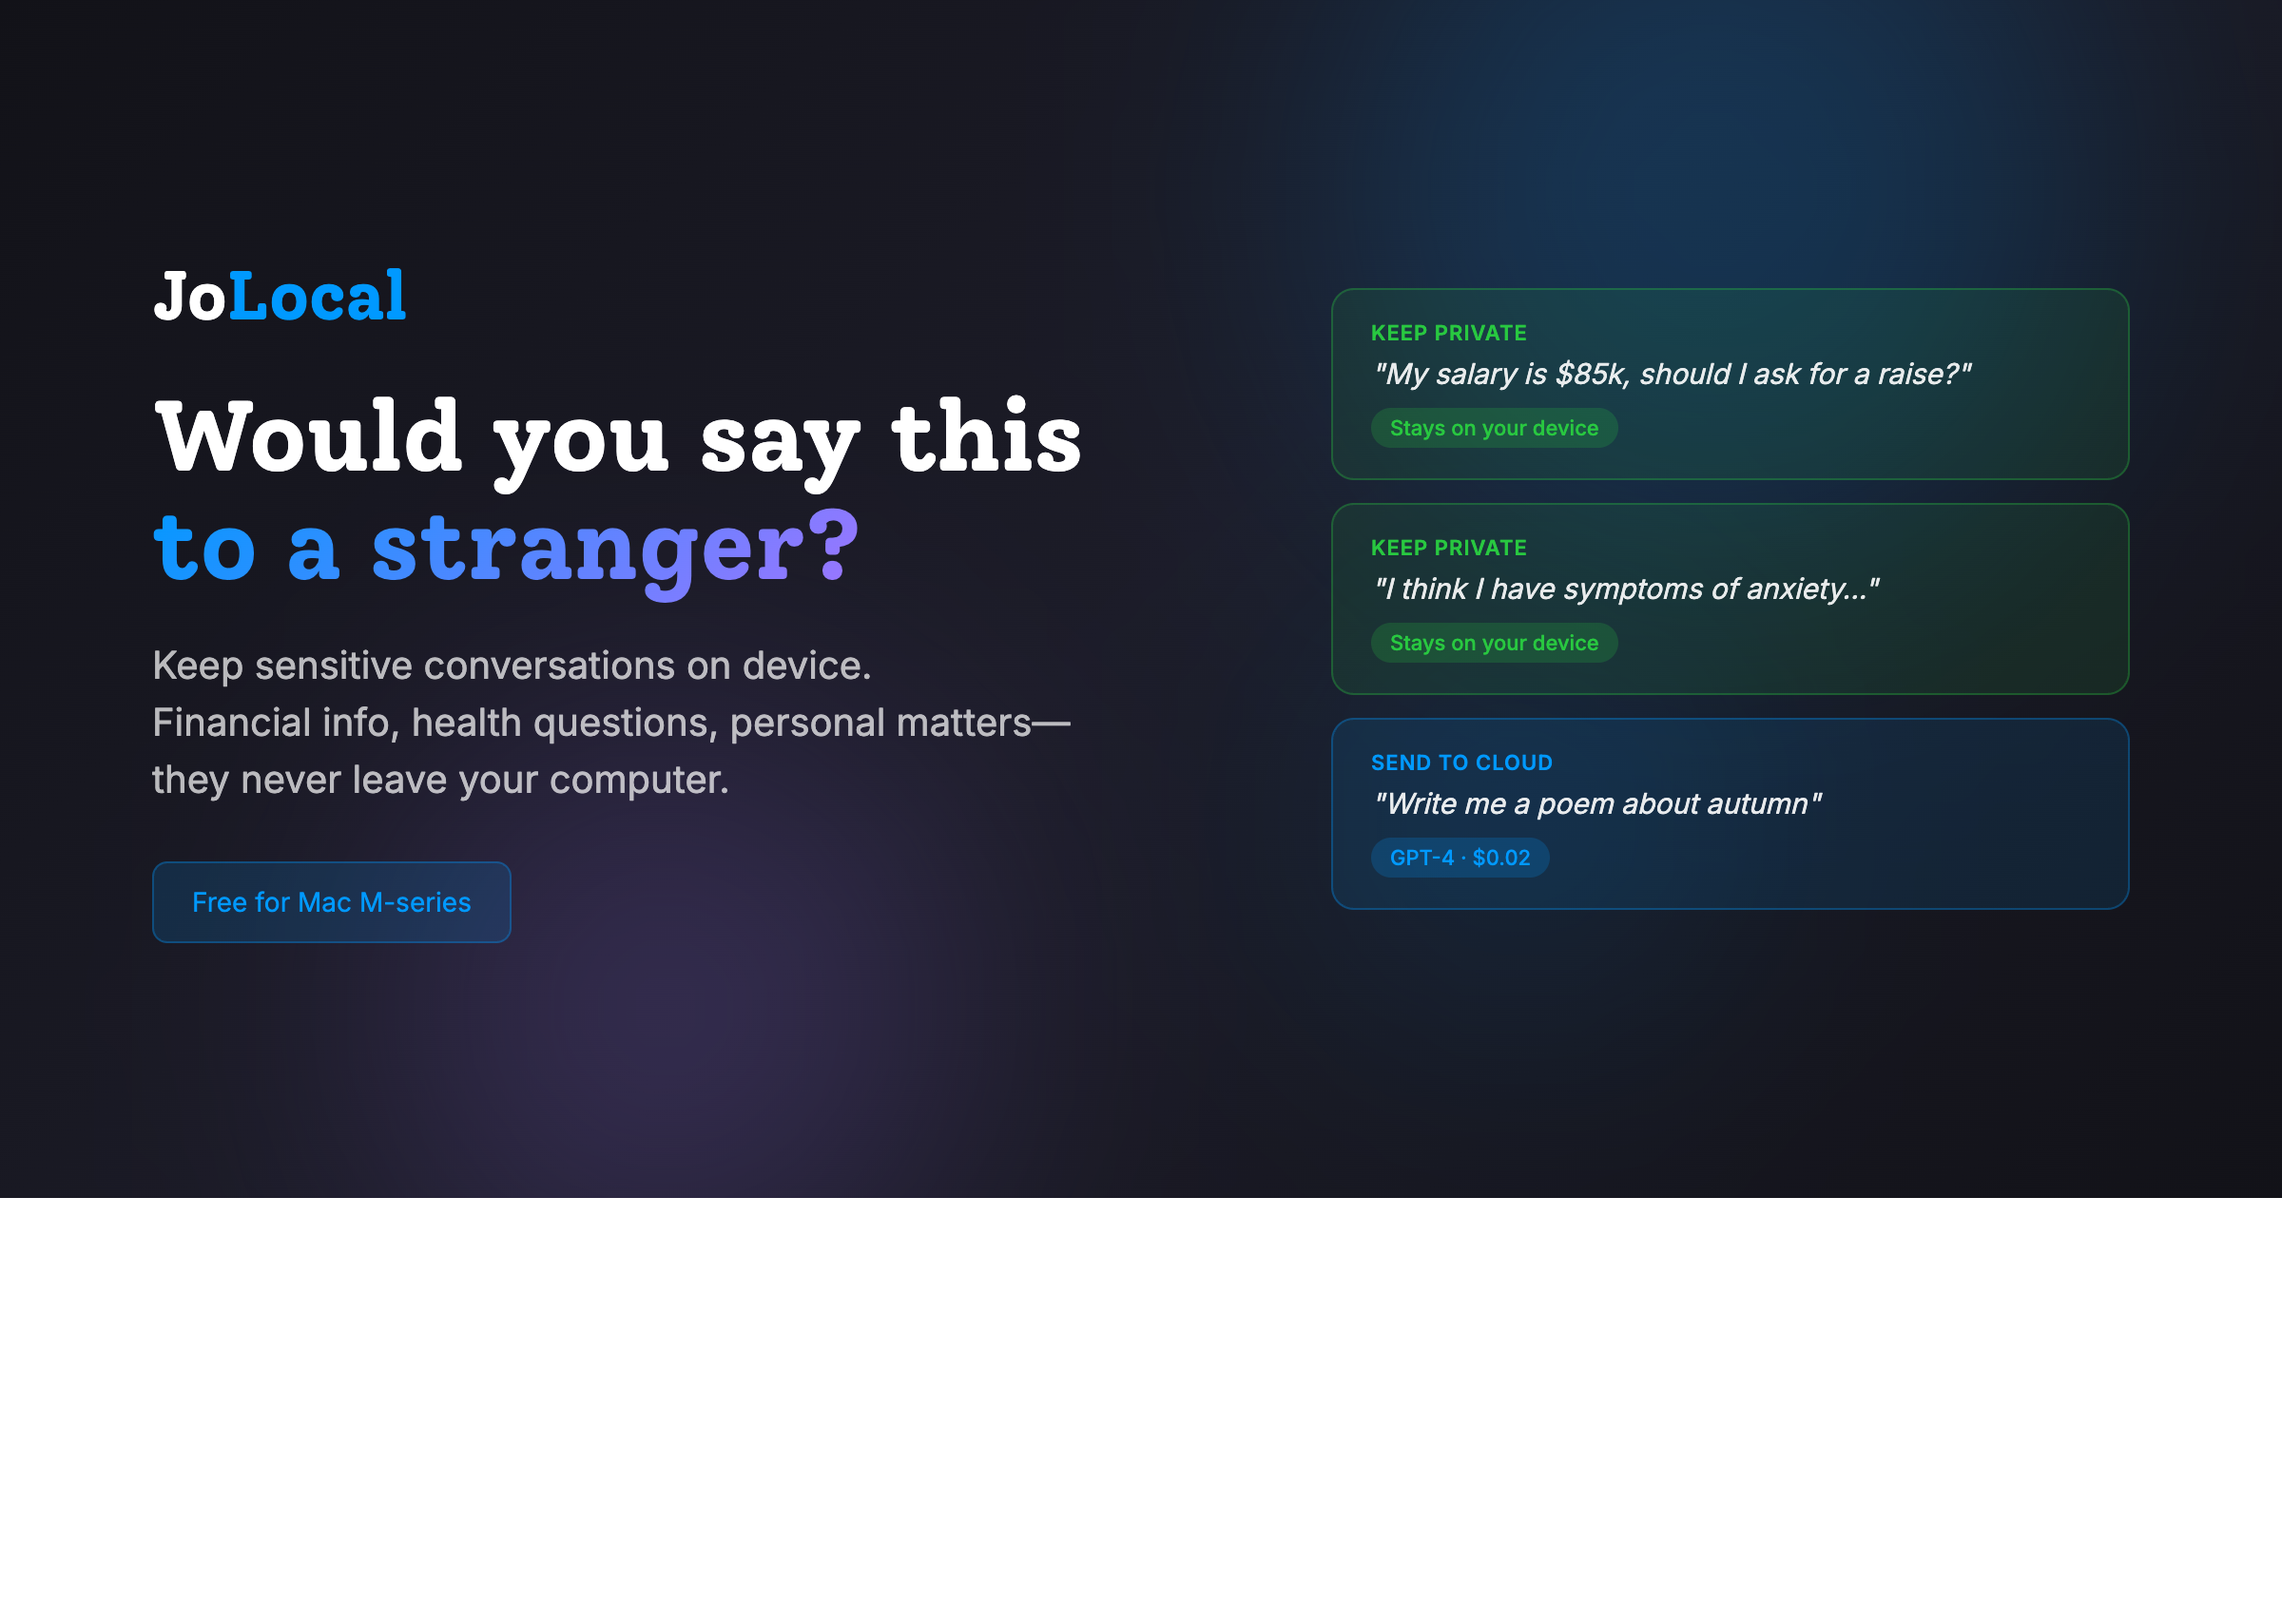
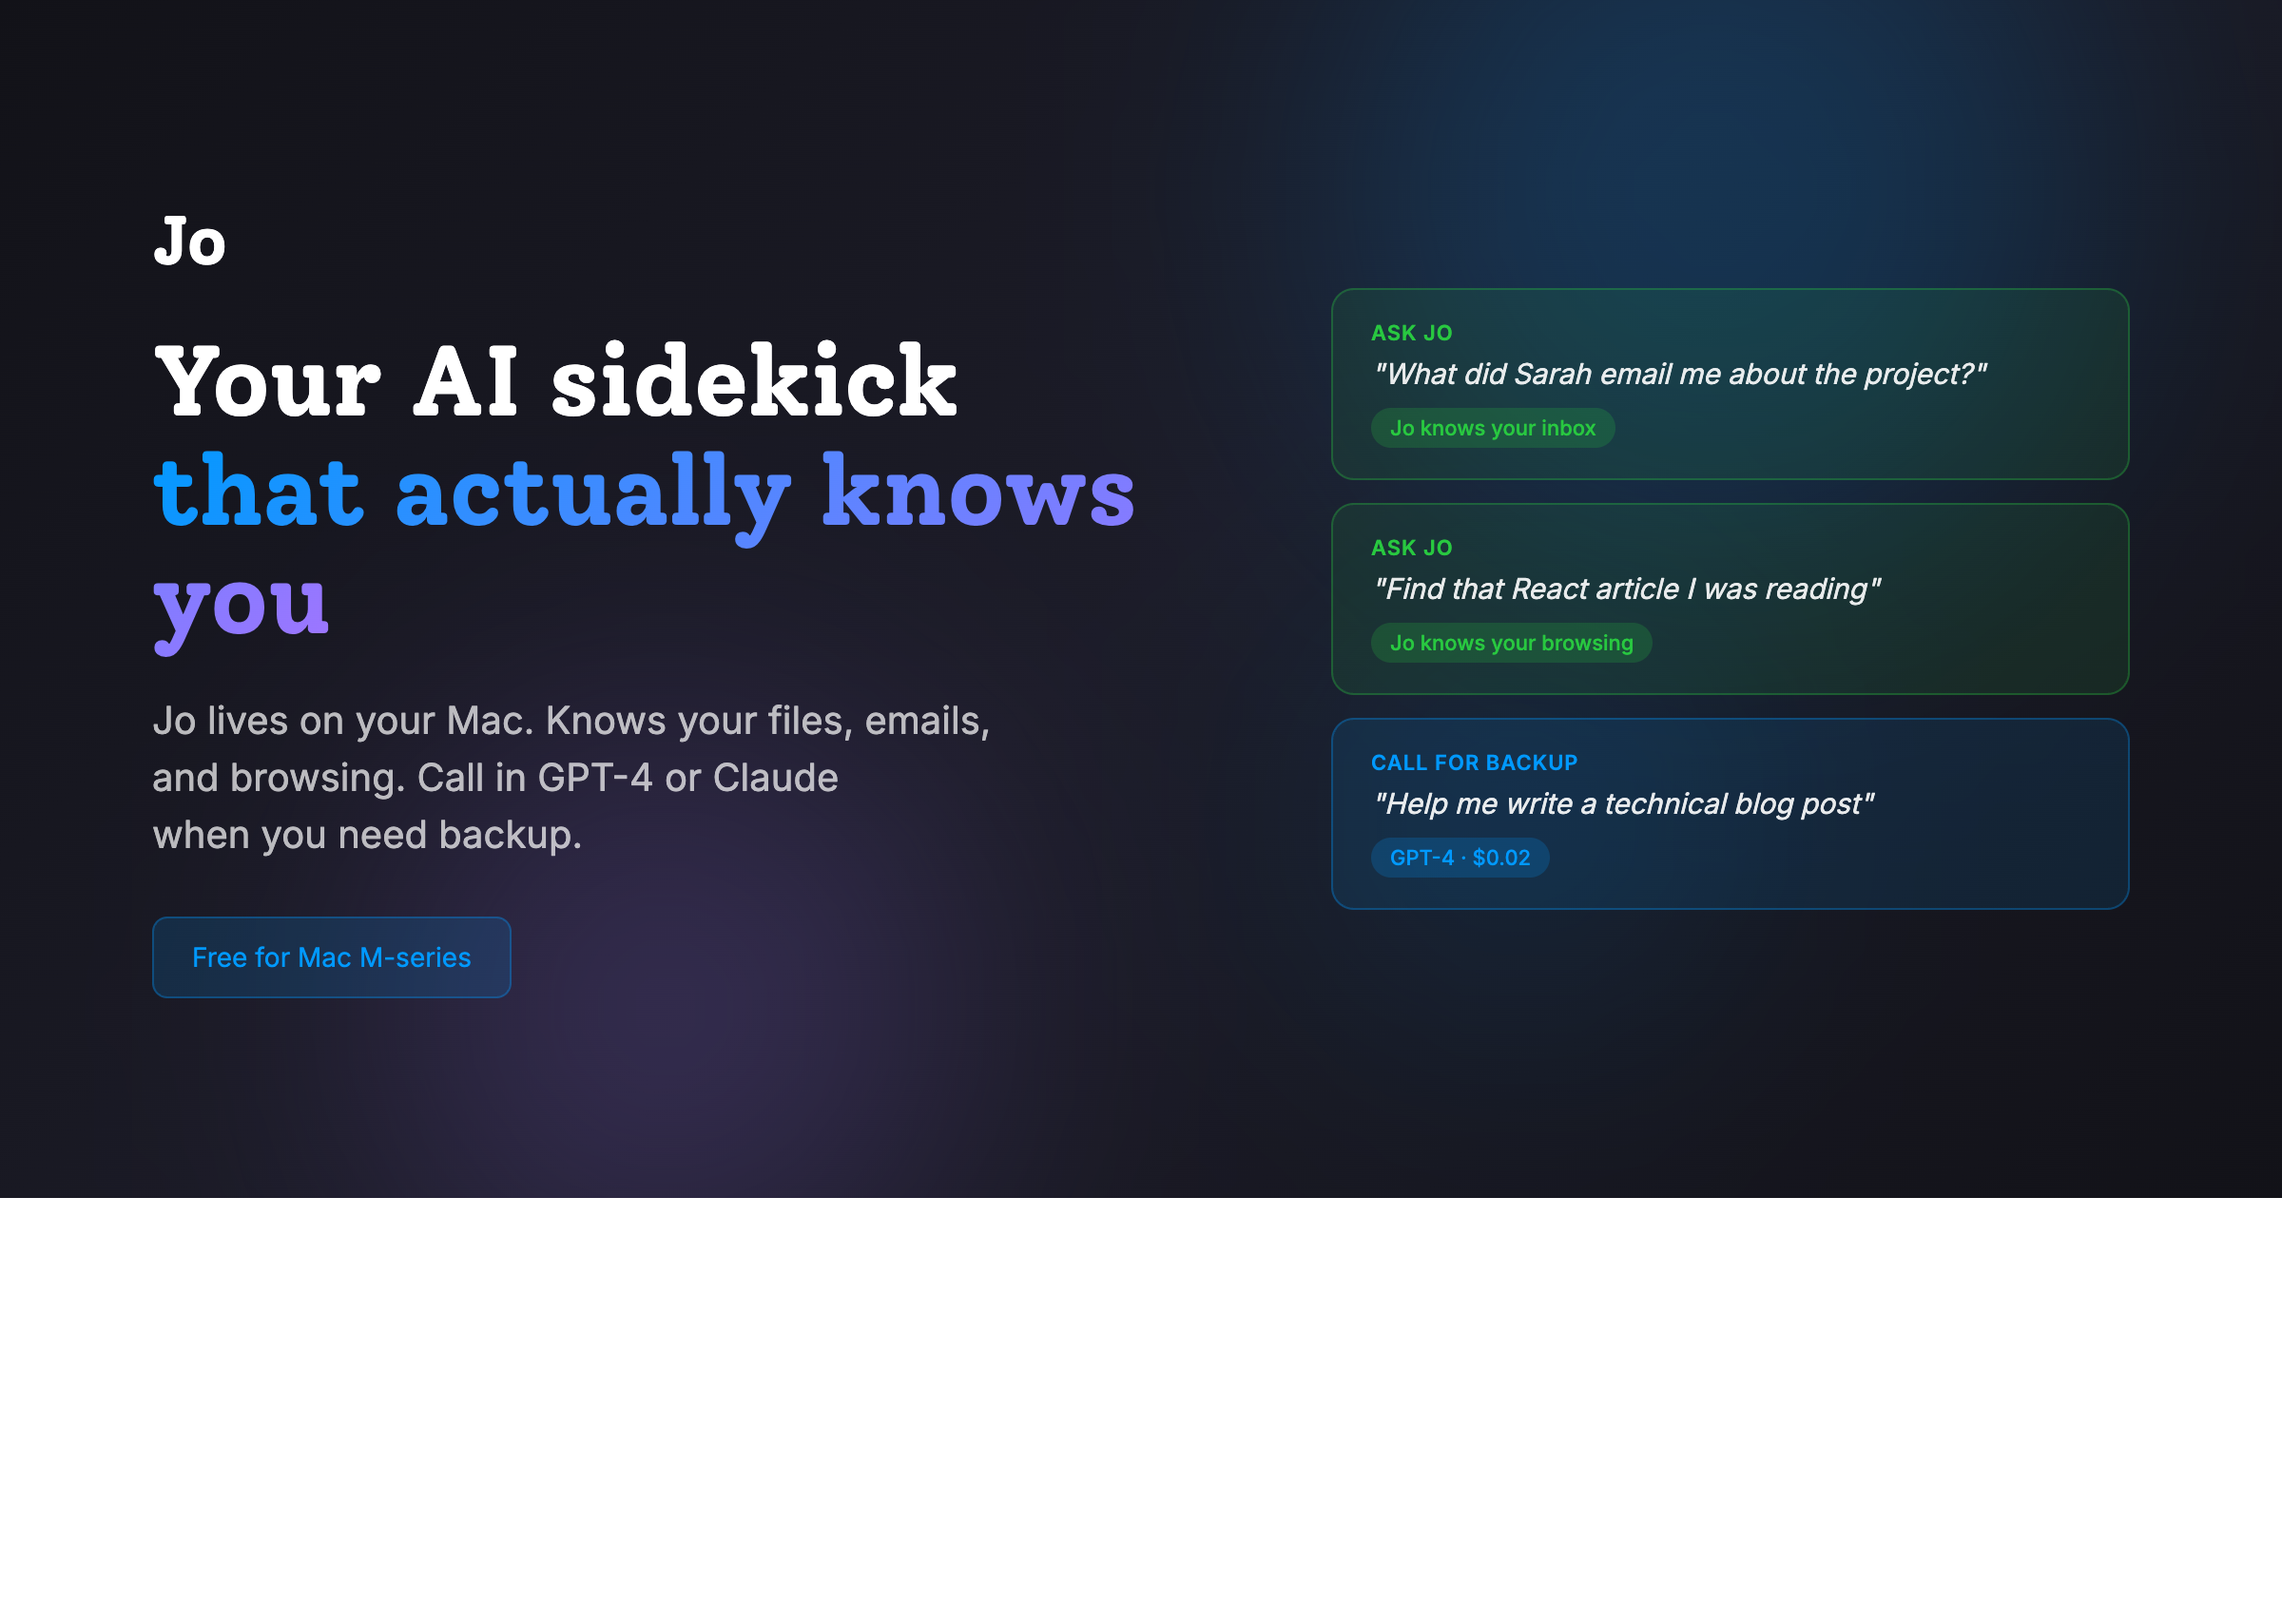
Update OG image with sidekick framing
- "Your AI sidekick that actually knows you"
- "Jo lives on your Mac" messaging
- "Call for backup" for cloud AIs
- Matching example cards

🤖 Generated with [Claude Code](https://claude.com/claude-code)

diff --git a/og-image.html b/og-image.html
@@ -191,12 +191,12 @@
         <div class="orb orb-3"></div>
 
         <div class="content">
-            <div class="logo">Jo<span>Local</span></div>
+            <div class="logo">Jo</div>
             <h1 class="headline">
-                Would you say this<br>
-                <span class="gradient">to a stranger?</span>
+                Your AI sidekick<br>
+                <span class="gradient">that actually knows you</span>
             </h1>
-            <p class="tagline">Keep sensitive conversations on device.<br>Financial info, health questions, personal matters—<br>they never leave your computer.</p>
+            <p class="tagline">Jo lives on your Mac. Knows your files, emails,<br>and browsing. Call in GPT-4 or Claude<br>when you need backup.</p>
             <div class="cta-badge">
                 <span>Free for Mac M-series</span>
             </div>
@@ -204,18 +204,18 @@
 
         <div class="visual">
             <div class="example-card private">
-                <div class="example-label">Keep Private</div>
-                <div class="example-content">"My salary is $85k, should I ask for a raise?"</div>
-                <span class="example-badge local">Stays on your device</span>
+                <div class="example-label">Ask Jo</div>
+                <div class="example-content">"What did Sarah email me about the project?"</div>
+                <span class="example-badge local">Jo knows your inbox</span>
             </div>
             <div class="example-card private">
-                <div class="example-label">Keep Private</div>
-                <div class="example-content">"I think I have symptoms of anxiety..."</div>
-                <span class="example-badge local">Stays on your device</span>
+                <div class="example-label">Ask Jo</div>
+                <div class="example-content">"Find that React article I was reading"</div>
+                <span class="example-badge local">Jo knows your browsing</span>
             </div>
             <div class="example-card cloud">
-                <div class="example-label">Send to Cloud</div>
-                <div class="example-content">"Write me a poem about autumn"</div>
+                <div class="example-label">Call for backup</div>
+                <div class="example-content">"Help me write a technical blog post"</div>
                 <span class="example-badge cloud-badge">GPT-4 · $0.02</span>
             </div>
         </div>
